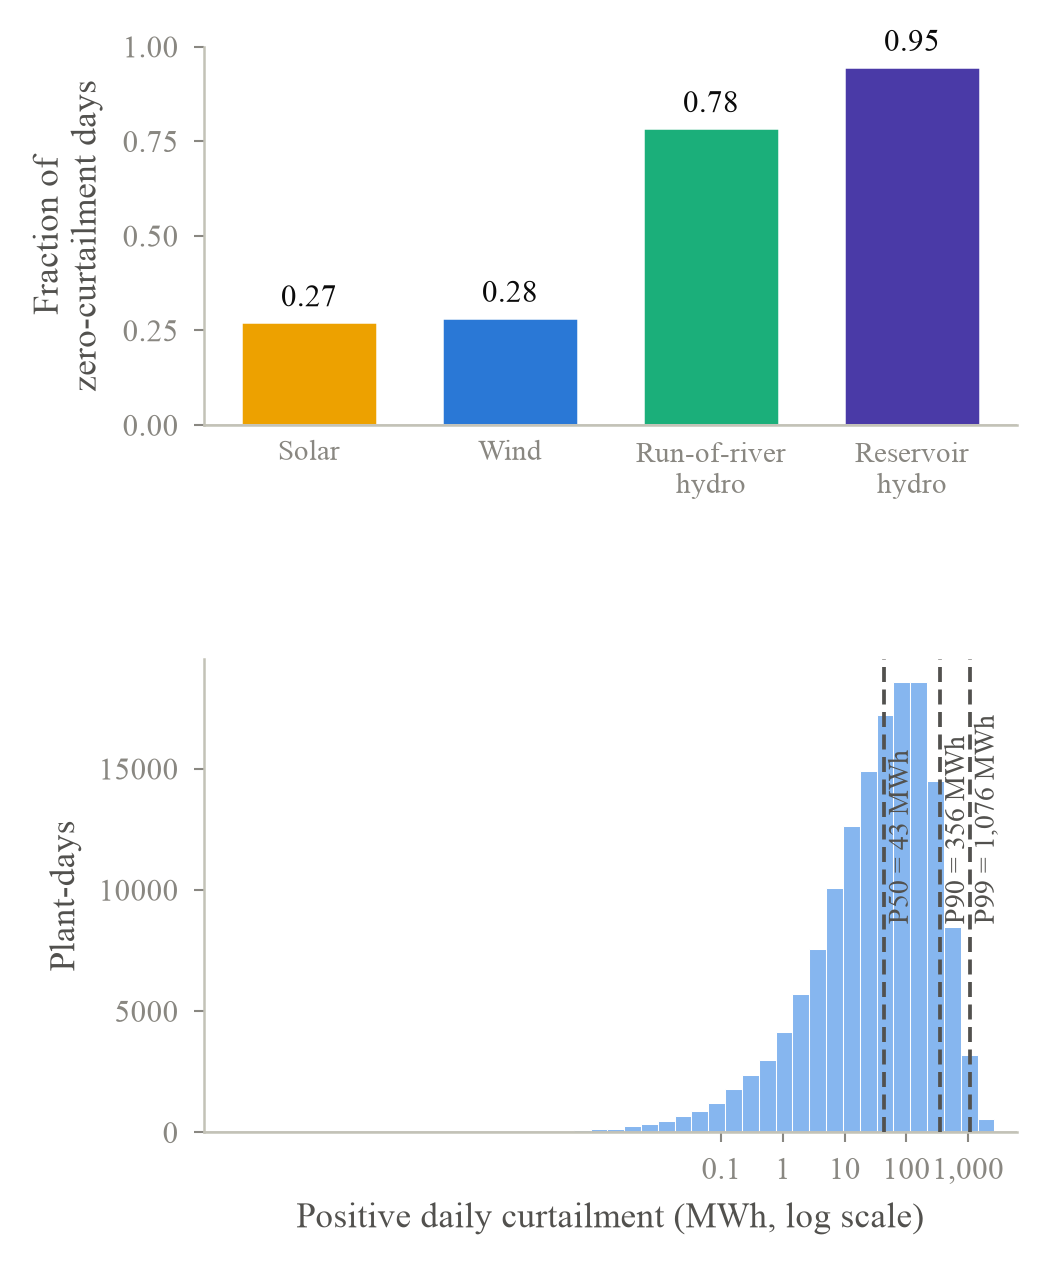
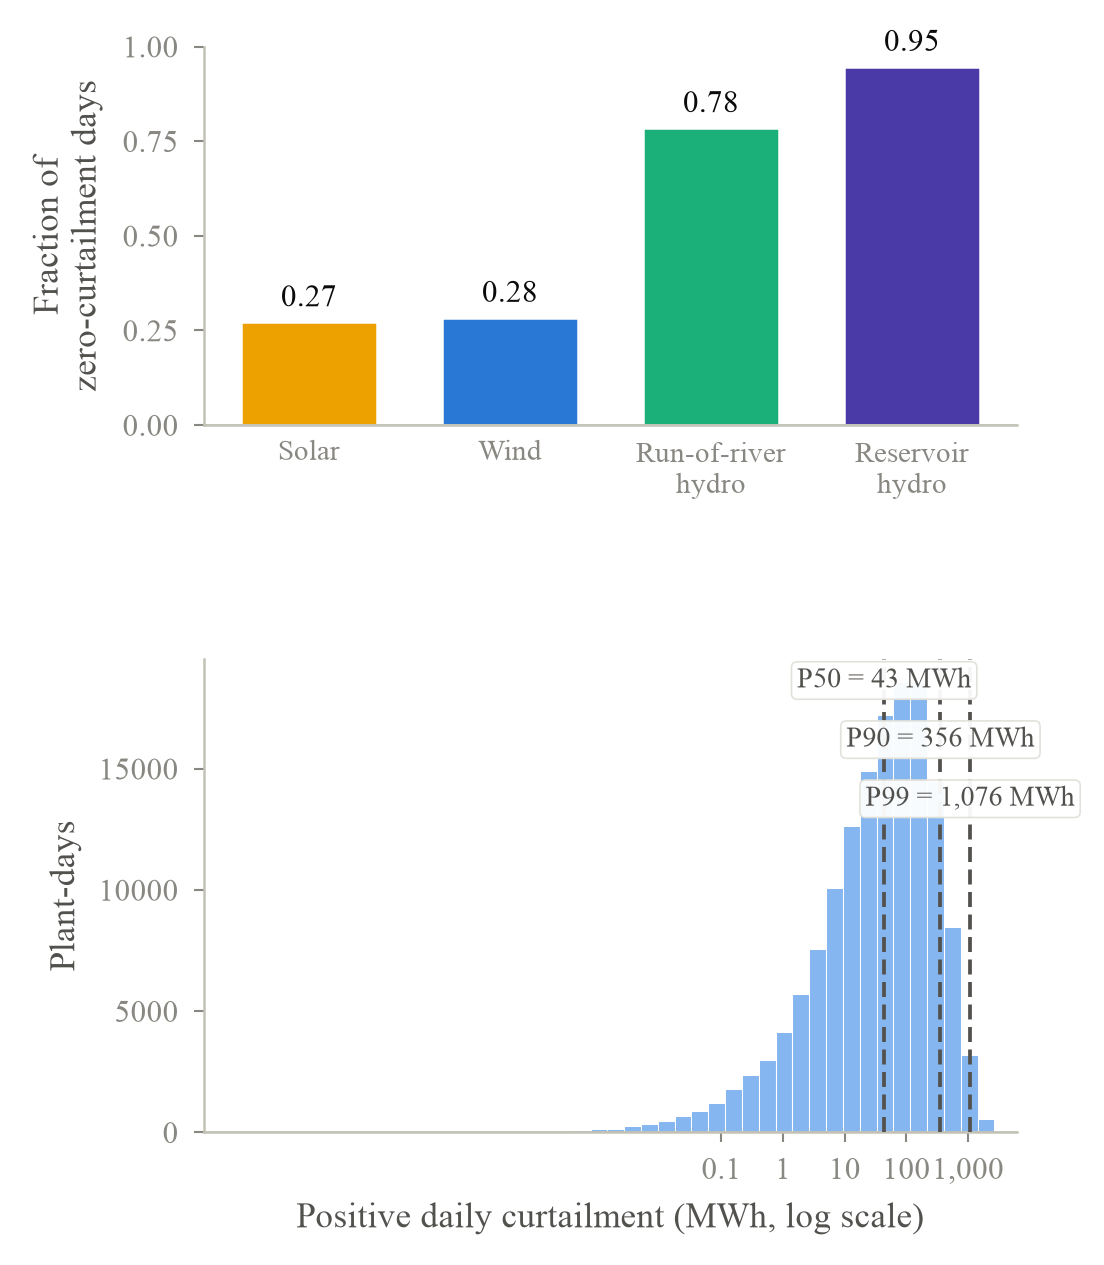
flagship: legibilidad de fig1 y fig2 (revision sobre PDF compilado)
- fig2 panel inferior: las etiquetas de percentiles pasan de vertical (se
  solapaban e ilegibles) a horizontales escalonadas en altura, cada una sobre
  su linea guia con recuadro blanco. P50/P90/P99 se leen sin esfuerzo.
- fig1 leyenda de tamanos: se quita la referencia de 10 GWh, cuyo marcador
  (~2.9 pt) era invisible en el PDF y dejaba la etiqueta "10" flotando cerca de
  30 S. Referencias nuevas 100/400/700 GWh, todas con circulo claramente visible.

diff --git a/flagship/generar_figuras_paper.py b/flagship/generar_figuras_paper.py
@@ -192,7 +192,11 @@ def figura_1():
         t.set_color(TINTA_2)
     ax.add_artist(l1)
 
-    refs_gwh = [10, 100, 400]
+    # referencias visibles a tamano real: la mas chica (10 GWh) daba un marcador
+    # de ~2.9 pt, invisible en el PDF compilado, y su etiqueta "10" quedaba
+    # flotando dentro del mapa. Se usan referencias cuyo circulo se ve con
+    # claridad (>= 6 pt) y que cubren el rango hasta el maximo (~745 GWh).
+    refs_gwh = [100, 400, 700]
     leg_tam = [Line2D([], [], linestyle="", marker="o",
                       markersize=np.sqrt(S_MIN + g * 1000 * escala),
                       markerfacecolor="none", markeredgecolor=TINTA_MUTED,
@@ -201,7 +205,7 @@ def figura_1():
     l2 = ax.legend(handles=leg_tam, title="Cumulative curtailment\n2022–2026 (GWh)",
                    loc="upper left", bbox_to_anchor=(0.015, 0.60),
                    frameon=False, title_fontsize=8, alignment="left",
-                   labelspacing=1.1, handletextpad=0.7, borderaxespad=0.0)
+                   labelspacing=2.2, handletextpad=0.9, borderaxespad=0.0)
     l2.get_title().set_color(TINTA_2)
     for t in l2.get_texts():
         t.set_color(TINTA_2)
@@ -247,14 +251,18 @@ def figura_2():
                 zorder=2)
     p50, p90, p99 = np.percentile(pos, [50, 90, 99])
     ymax = ax_bot.get_ylim()[1]
-    # etiqueta vertical a la derecha de cada linea: fina en horizontal, asi P90 y
-    # P99 (a media decada de distancia) no colisionan
+    # etiquetas horizontales en la parte superior, escalonadas en altura para que
+    # P90 y P99 (a media decada de distancia) no se solapen; cada una se apoya
+    # sobre su linea guia con un recuadro blanco que la mantiene legible
+    alturas = {"P50": 0.955, "P90": 0.83, "P99": 0.705}
     for p, etq in [(p50, "P50"), (p90, "P90"), (p99, "P99")]:
         xp = np.log10(p)
         ax_bot.axvline(xp, color=TINTA_2, linewidth=0.9, linestyle=(0, (4, 2)),
                        zorder=3)
-        ax_bot.text(xp + 0.06, ymax * 0.44, f"{etq} = {p:,.0f} MWh", rotation=90,
-                    ha="left", va="bottom", fontsize=6.8, color=TINTA_2, zorder=4)
+        ax_bot.text(xp, alturas[etq] * ymax, f"{etq} = {p:,.0f} MWh",
+                    ha="center", va="center", fontsize=6.8, color=TINTA_2, zorder=4,
+                    bbox=dict(boxstyle="round,pad=0.2", facecolor="white",
+                              edgecolor=HAIRLINE, linewidth=0.4, alpha=0.95))
     ax_bot.set_xlabel("Positive daily curtailment (MWh, log scale)")
     ax_bot.set_ylabel("Plant-days")
     ticks = [-1, 0, 1, 2, 3, 4]
